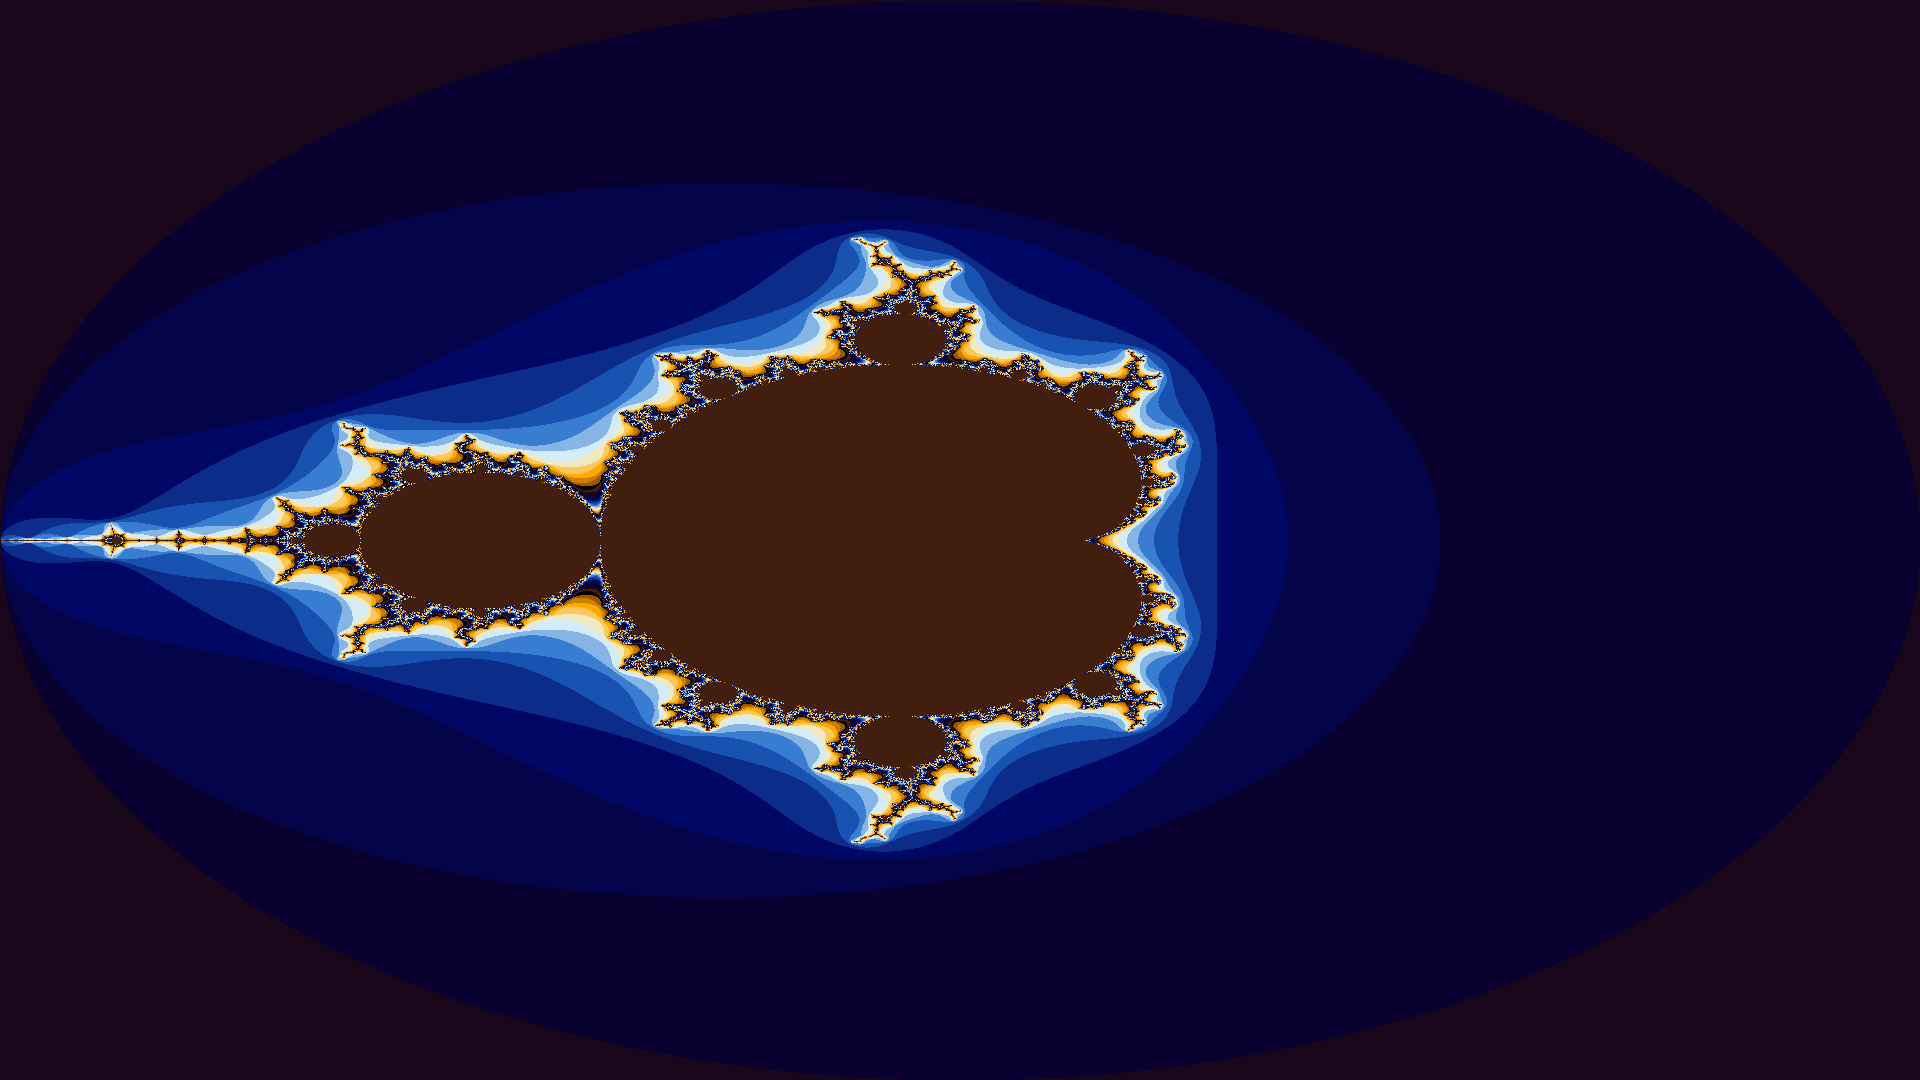
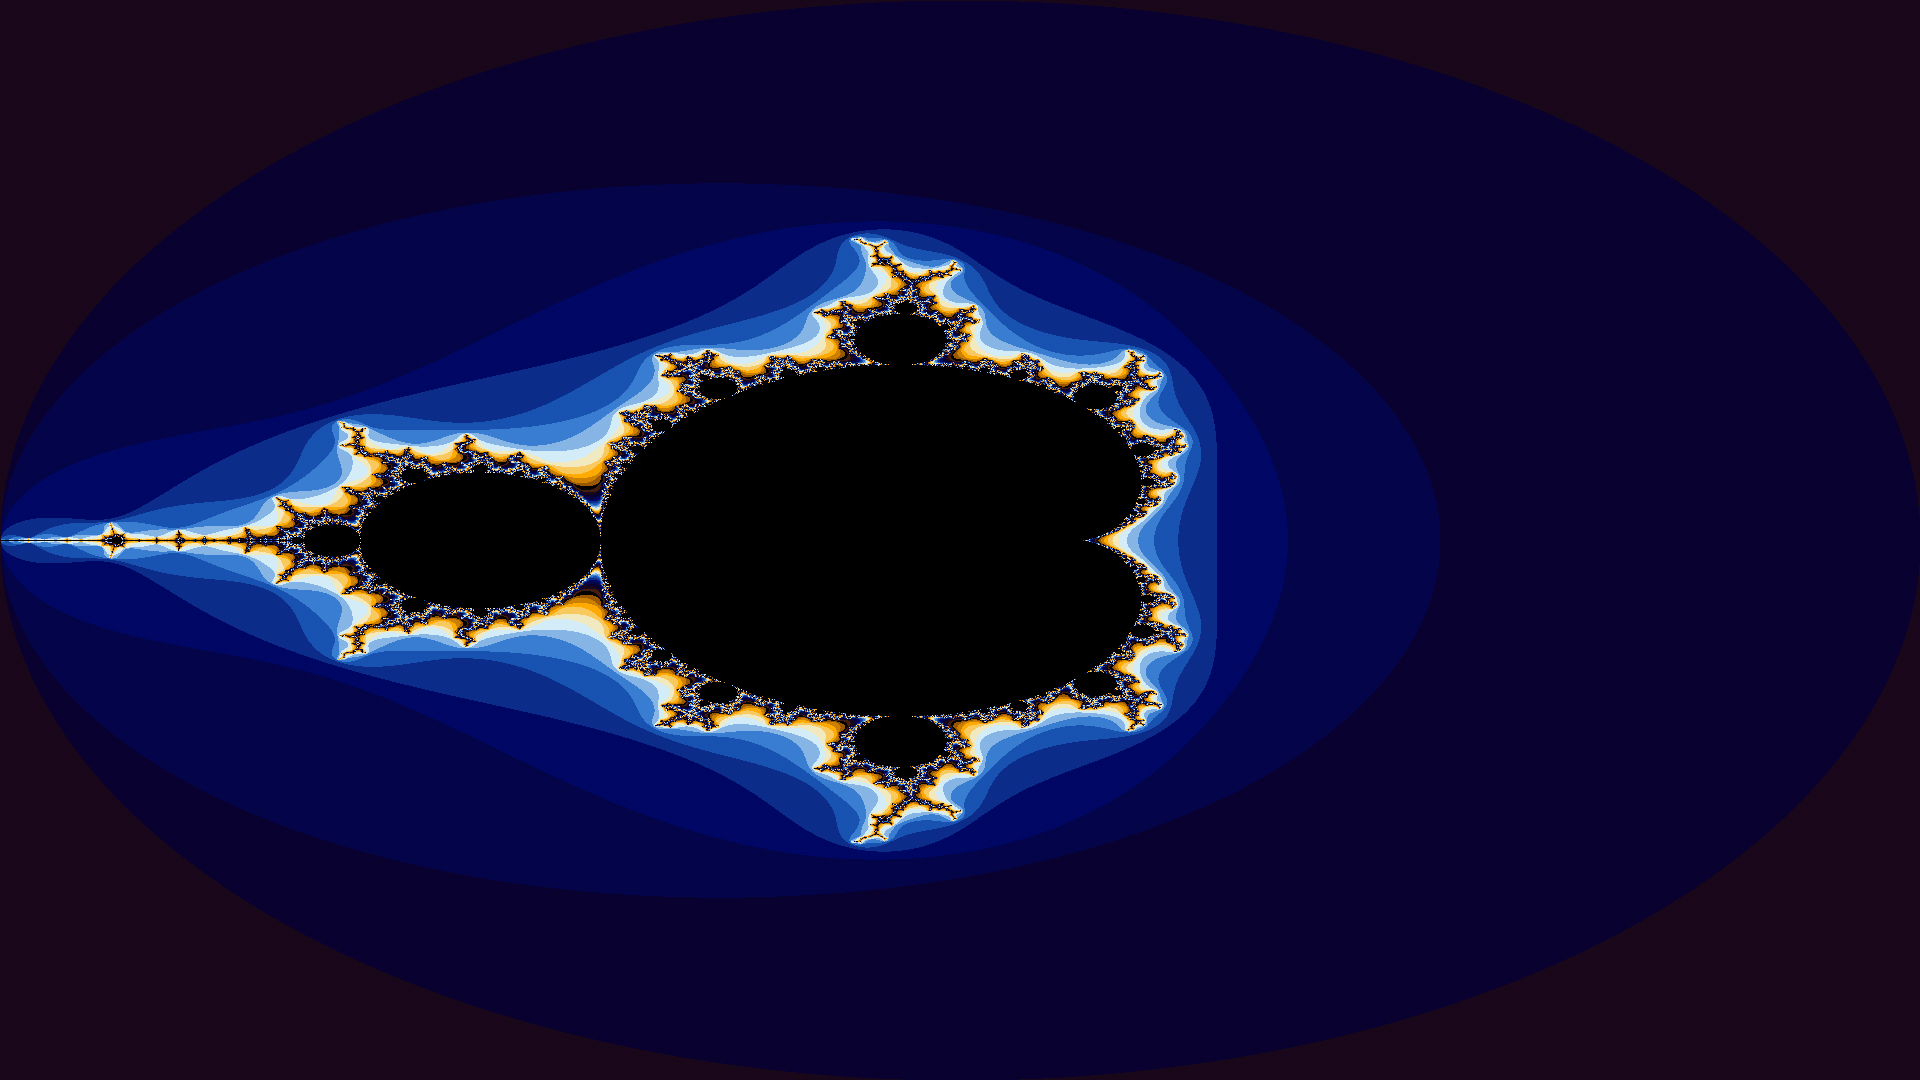
img

Changed region(s): [[0.1562, 0.275, 0.5938, 0.7333]]

diff --git a/trabalho/mand.c b/trabalho/mand.c
@@ -28,8 +28,11 @@ Color getColor(int iter){
     };
     int numColors = sizeof(colors)/sizeof(colors[0]);
    
-    
-    return colors[iter % numColors];
+    if(iter < (256-16))
+        return colors[iter % numColors];
+    else {
+        return black;
+    }
 }
 
 void mand(unsigned char *output){
